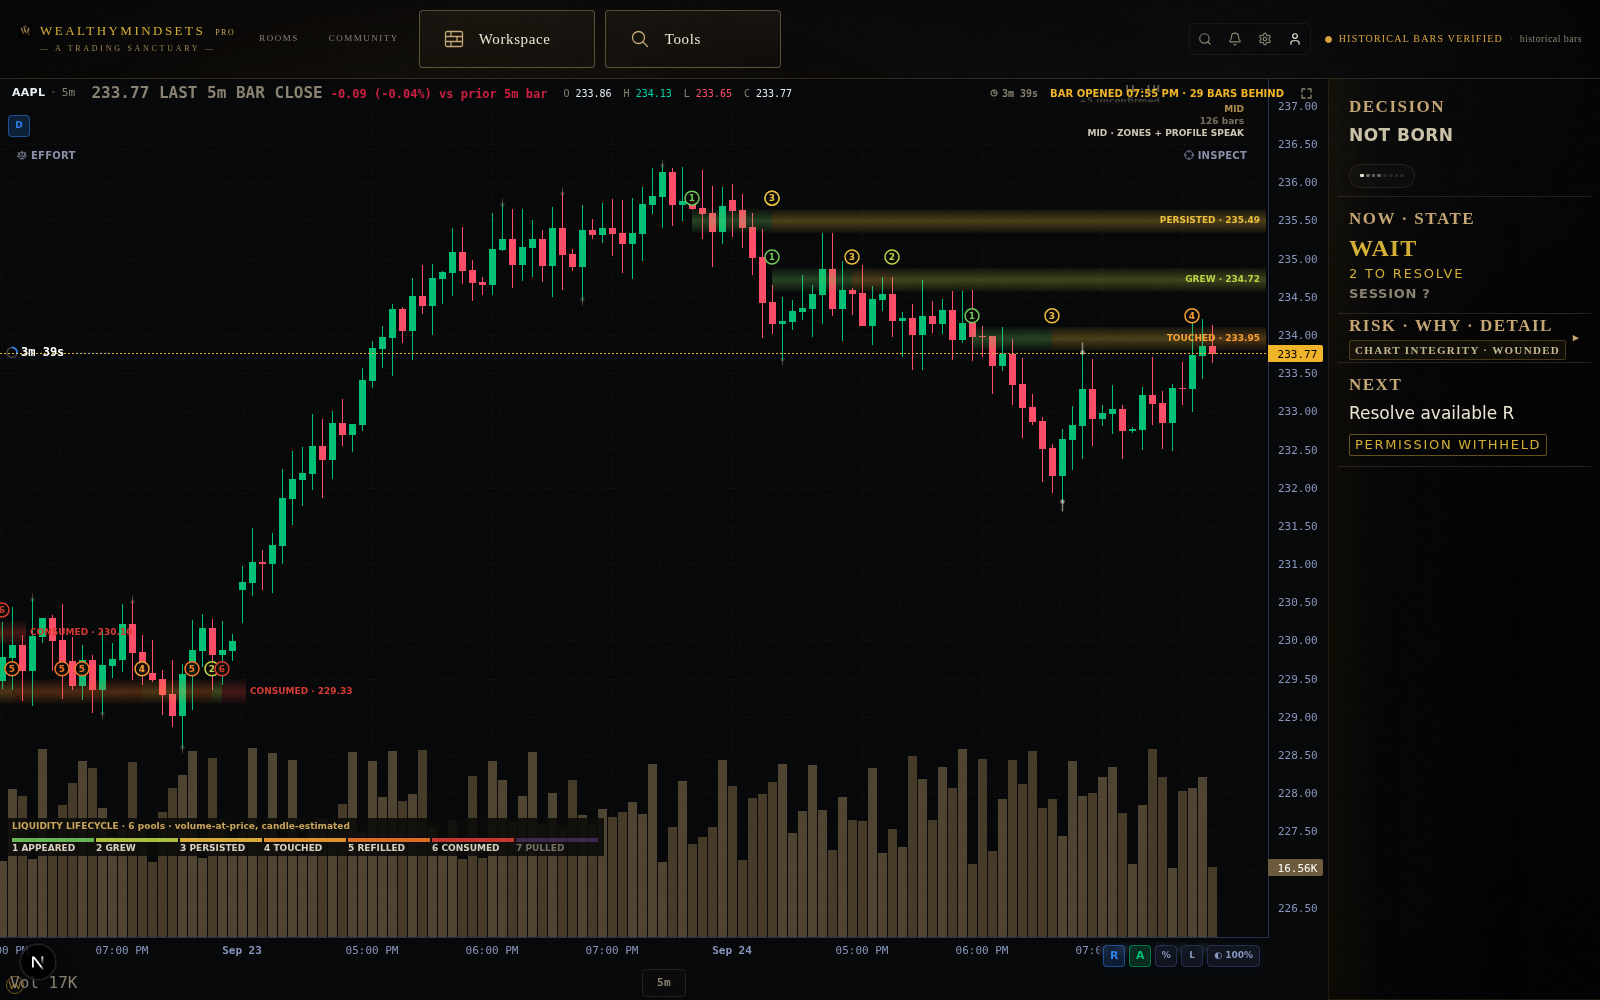
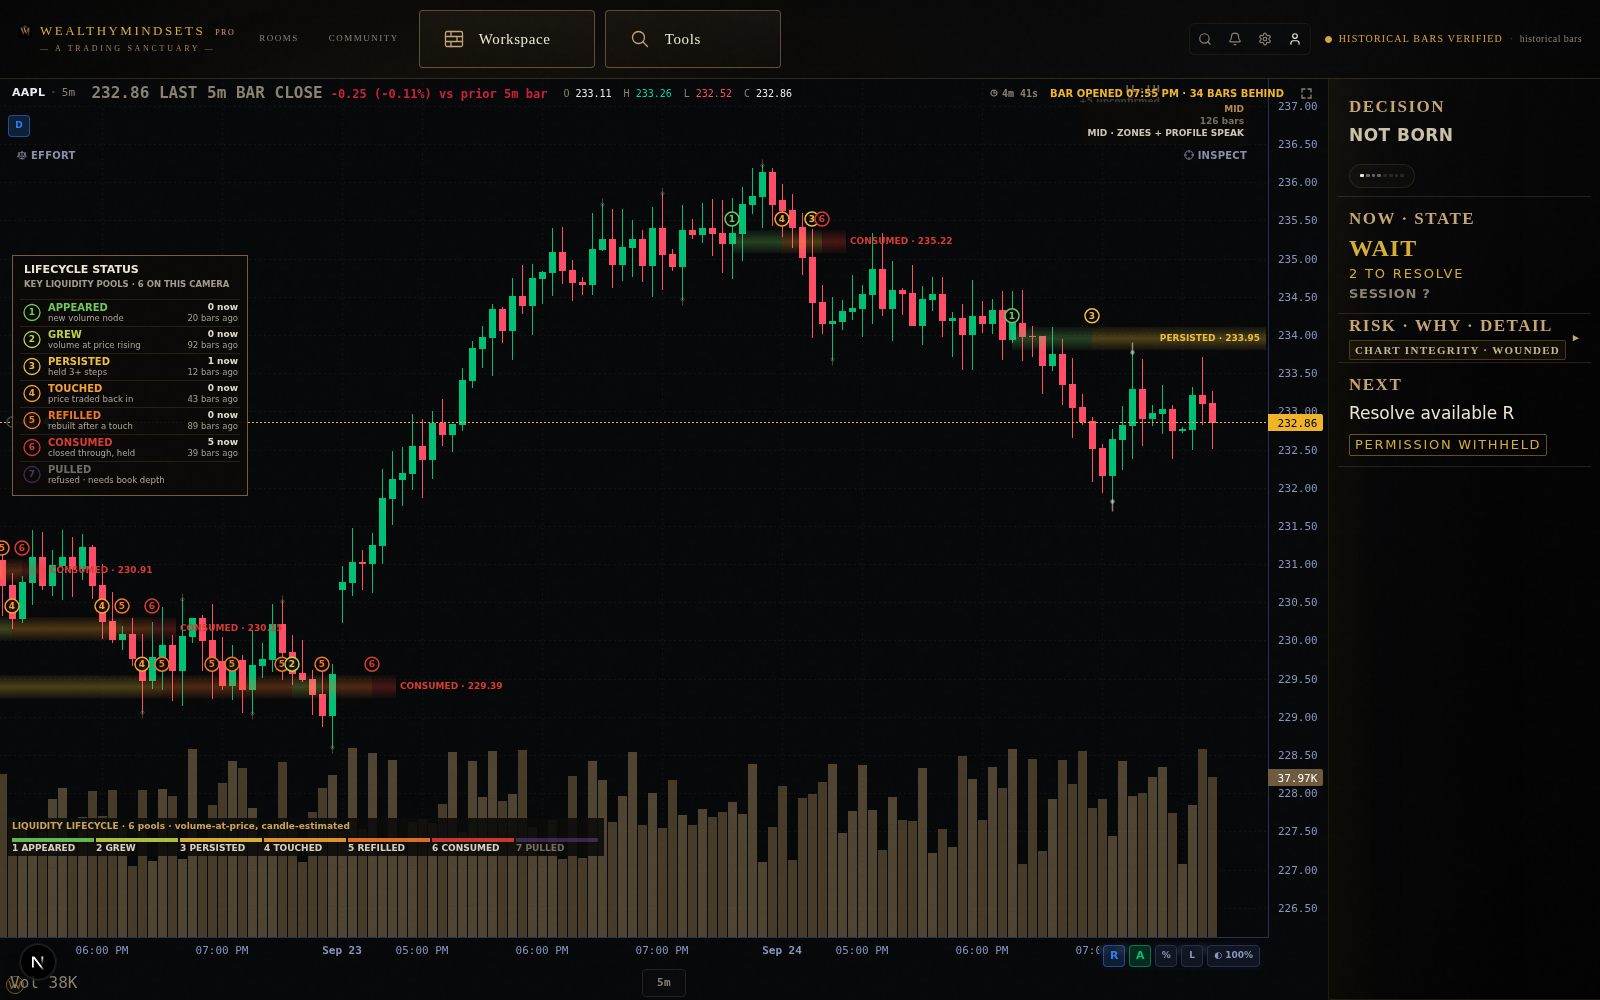
Lifecycle Status column (Founder Liquidity Weather mockup)
The plate's right column on the chart: one row per stage APPEARED..PULLED
with how many pools stand at it now and bars since it last happened. PULLED
keeps its row, marked refused (needs book depth). The 0-100 Liquidity
Weather Index is not drawn: nothing here measures such a score. The panel
takes the first free slot, stepping right of the scaffolding plate (which
now registers itself as an obstacle). Receipt: ds.liquidityLifecycleStatus.

Claude-Session: https://claude.ai/code/session_01Gntm2WzCaW5uQMS2aMojoZ

diff --git a/src/components/chart/MainChart.tsx b/src/components/chart/MainChart.tsx
@@ -8563,6 +8563,7 @@ export function MainChart({ symbol, timeframe, setTimeframe, footprintType, foot
                   ctx.font = font(700, 8.5); ctx.fillStyle = GOLD;
                   ctx.textAlign = "center";
                   ctx.fillText(clip(`CONCLUSION: ${sc.conclusion}`, w - 30), x0 + w / 2, ry + 14.5);
+                  floatingChips.push({ x: x0, y: y0 - 9, w: w * scafK, h: (top + h - (y0 - 9)) * scafK });
                   ctx.textAlign = "left";
                 } else if (depth === "INTERMEDIATE") {
                   const w = 300, rowH = 40, h = 40 + sc.dynamics.length * rowH + 56 + 18;
@@ -8593,6 +8594,7 @@ export function MainChart({ symbol, timeframe, setTimeframe, footprintType, foot
                   ctx.font = font(700, 8); ctx.fillStyle = DIM;
                   ctx.textAlign = "center";
                   ctx.fillText("SAME READ. FEWER STEPS. HIGHER OWNERSHIP.", x0 + w / 2, ry + 64);
+                  floatingChips.push({ x: x0, y: y0 - 9, w: w * scafK, h: (top + h - (y0 - 9)) * scafK });
                   ctx.textAlign = "left";
                 } else {
                   const w = 300, gh = 130, h = 40 + gh + 96;
@@ -8645,6 +8647,7 @@ export function MainChart({ symbol, timeframe, setTimeframe, footprintType, foot
                   ctx.fillText(sc.conversion ?? "NO EFFORT", x0 + w / 2, by + 42);
                   ctx.font = font(700, 8); ctx.fillStyle = DIM;
                   ctx.fillText("PURE SIGNAL. MAXIMUM DISCRETION.", x0 + w / 2, top + h - 9);
+                  floatingChips.push({ x: x0, y: y0 - 9, w: w * scafK, h: (top + h - (y0 - 9)) * scafK });
                   ctx.textAlign = "left";
                 }
                 ctx.restore();
@@ -11255,6 +11258,65 @@ export function MainChart({ symbol, timeframe, setTimeframe, footprintType, foot
             ctx.fillStyle = st === "PULLED" ? "rgba(200,192,174,0.55)" : "rgba(237,230,211,0.9)";
             ctx.fillText(`${k + 1} ${st}`, x, ly + 11);
           });
+          // LIFECYCLE STATUS — the plate's right column, one row per stage:
+          // how many pools stand at it now and when it last happened, counted
+          // in bars. PULLED keeps its row and says why it is never called.
+          // (The plate's 0–100 "Liquidity Weather Index" is not drawn: no
+          // measurement here produces such a score.)
+          if (lc.drawn && W >= 960) {
+            const lastT = bsL.length ? Number(bsL[bsL.length - 1].time) : null;
+            const barsAgo = (t: number) => { let n = 0; for (let i = bsL.length - 1; i >= 0 && Number(bsL[i].time) > t; i--) n++; return n; };
+            const NOTE: Record<string, string> = {
+              APPEARED: "new volume node", GREW: "volume at price rising", PERSISTED: "held 3+ steps",
+              TOUCHED: "price traded back in", REFILLED: "rebuilt after a touch", CONSUMED: "closed through, held",
+              PULLED: "refused · needs book depth",
+            };
+            const pw = 236, rowH = 27, ph = 44 + STAGE_ORDER.length * rowH + 8;
+            const hitP = (x: number, y: number) => floatingChips.some(r => r.h >= 30 && x < r.x + r.w + 6 && x + pw + 6 > r.x && y < r.y + r.h + 6 && y + ph + 6 > r.y);
+            const cands = [{ x: 12, y: 176 }, ...floatingChips.filter(r => r.y < 260 && r.h > 150).map(r => ({ x: r.x + r.w + 12, y: 176 }))]
+              .filter(o => o.x + pw <= rightL - 8 && o.y + ph <= H - 150);
+            const at = cands.find(o => !hitP(o.x, o.y));
+            ds.liquidityLifecycleStatus = at ? "PANEL" : "NO_ROOM";
+            if (at) {
+              const { x: px, y: py } = at;
+              ctx.fillStyle = "rgba(11,10,8,0.95)"; ctx.fillRect(px, py, pw, ph);
+              ctx.strokeStyle = "rgba(201,165,92,0.55)"; ctx.lineWidth = 1; ctx.strokeRect(px + 0.5, py + 0.5, pw - 1, ph - 1);
+              ctx.textAlign = "left"; ctx.textBaseline = "middle";
+              ctx.font = "800 11px ui-sans-serif, system-ui, sans-serif"; ctx.fillStyle = "rgba(237,230,211,1)";
+              ctx.fillText("LIFECYCLE STATUS", px + 12, py + 15);
+              ctx.font = "600 8.5px ui-sans-serif, system-ui, sans-serif"; ctx.fillStyle = "rgba(200,192,174,0.8)";
+              ctx.fillText(`KEY LIQUIDITY POOLS · ${lc.pools.length} ON THIS CAMERA`, px + 12, py + 30);
+              STAGE_ORDER.forEach((st, k) => {
+                const ry = py + 44 + k * rowH;
+                const col = STAGE_RGB[st];
+                const pulled = st === "PULLED";
+                const now = lc.pools.filter(pl => pl.stage === st).length;
+                const evTimes = lc.pools.flatMap(pl => pl.events.filter(e => e.stage === st).map(e => e.time));
+                const lastEv = evTimes.length ? Math.max(...evTimes) : null;
+                ctx.strokeStyle = "rgba(201,165,92,0.15)";
+                ctx.beginPath(); ctx.moveTo(px + 8, ry + 0.5); ctx.lineTo(px + pw - 8, ry + 0.5); ctx.stroke();
+                ctx.beginPath(); ctx.arc(px + 20, ry + rowH / 2, 8, 0, Math.PI * 2);
+                ctx.strokeStyle = `rgba(${col},${pulled ? 0.4 : 1})`; ctx.lineWidth = 1.3; ctx.stroke(); ctx.lineWidth = 1;
+                ctx.textAlign = "center"; ctx.font = "800 9px ui-sans-serif, system-ui, sans-serif";
+                ctx.fillStyle = `rgba(${col},${pulled ? 0.5 : 1})`; ctx.fillText(String(k + 1), px + 20, ry + rowH / 2 + 0.5);
+                ctx.textAlign = "left";
+                ctx.font = "800 10px ui-sans-serif, system-ui, sans-serif";
+                ctx.fillStyle = pulled ? "rgba(200,192,174,0.55)" : `rgba(${col},1)`;
+                ctx.fillText(st, px + 36, ry + 9);
+                ctx.font = "500 8.5px ui-sans-serif, system-ui, sans-serif"; ctx.fillStyle = "rgba(200,192,174,0.85)";
+                ctx.fillText(NOTE[st], px + 36, ry + 20);
+                ctx.textAlign = "right";
+                if (!pulled) {
+                  ctx.font = "700 9px ui-sans-serif, system-ui, sans-serif"; ctx.fillStyle = "rgba(237,230,211,0.95)";
+                  ctx.fillText(`${now} now`, px + pw - 10, ry + 9);
+                  ctx.font = "500 8.5px ui-sans-serif, system-ui, sans-serif"; ctx.fillStyle = "rgba(200,192,174,0.8)";
+                  ctx.fillText(lastEv == null || lastT == null ? "never" : barsAgo(lastEv) === 0 ? "this bar" : `${barsAgo(lastEv)} bars ago`, px + pw - 10, ry + 20);
+                }
+                ctx.textAlign = "left";
+              });
+              floatingChips.push({ x: px, y: py, w: pw, h: ph });
+            }
+          } else ds.liquidityLifecycleStatus = lc.drawn ? "NARROW" : "NONE";
           ctx.restore();
           if (lc.drawn) floatingChips.push({ x: lx - 4, y: ly - 20, w: segW * 7 + 8, h: 38 });
         } else {
